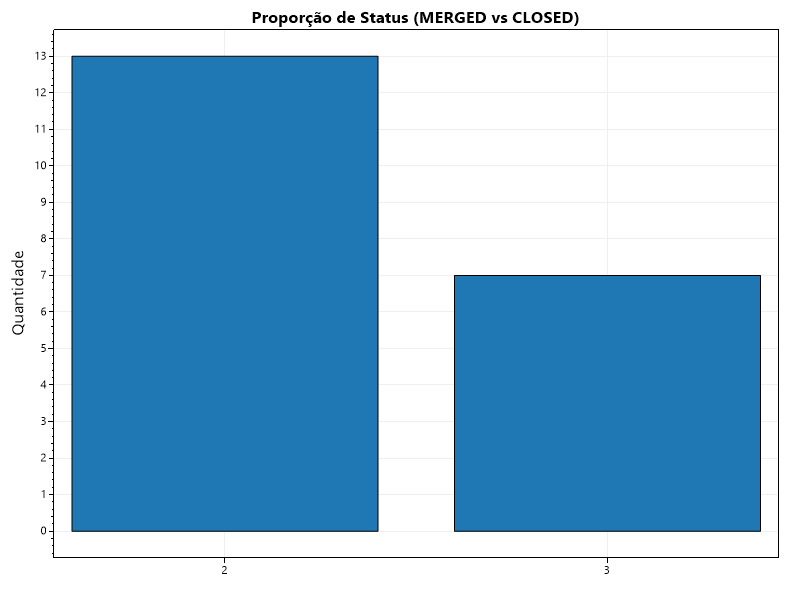
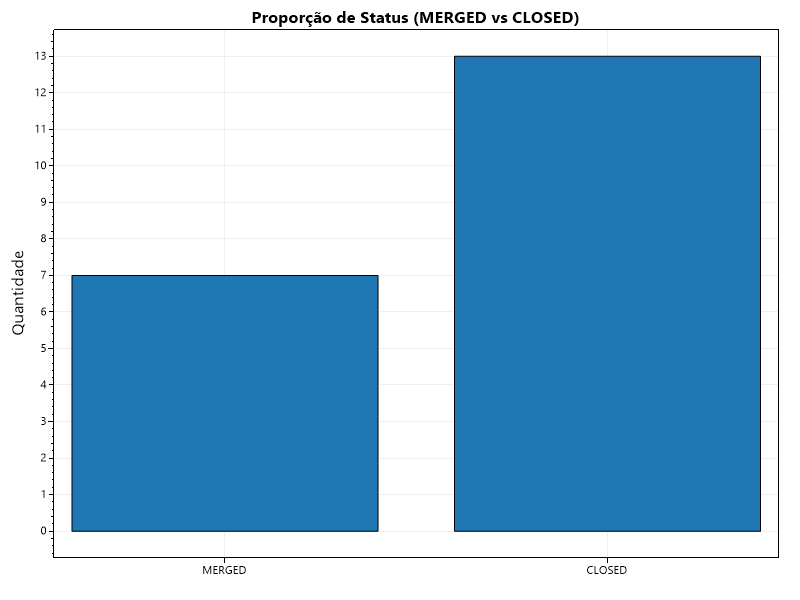
final final

diff --git a/CaracterizandoAtividadeCodeReview/Program.cs b/CaracterizandoAtividadeCodeReview/Program.cs
@@ -375,7 +375,14 @@ namespace CaracterizandoAtividadeCodeReview
         if (fields.Count == 0) continue;
 
         string? repo = idxRepository >= 0 && idxRepository < fields.Count ? fields[idxRepository] : null;
-        string? status = idxStatus >= 0 && idxStatus < fields.Count ? fields[idxStatus] : null;
+        // Robust status detection: prefer the column index, but fall back to searching for MERGED/CLOSED
+        string? status = null;
+        if (idxStatus >= 0 && idxStatus < fields.Count) status = fields[idxStatus];
+        if (string.IsNullOrWhiteSpace(status) || !(status.Trim().Equals("MERGED", StringComparison.OrdinalIgnoreCase) || status.Trim().Equals("CLOSED", StringComparison.OrdinalIgnoreCase)))
+        {
+          var candidate = fields.FirstOrDefault(f => !string.IsNullOrWhiteSpace(f) && (f.Trim().Equals("MERGED", StringComparison.OrdinalIgnoreCase) || f.Trim().Equals("CLOSED", StringComparison.OrdinalIgnoreCase)));
+          if (!string.IsNullOrWhiteSpace(candidate)) status = candidate;
+        }
         string createdStr = idxCreatedAt >= 0 && idxCreatedAt < fields.Count ? fields[idxCreatedAt] : (fields.Count > 3 ? fields[3] : "");
         string reviewTimeStr = idxReviewTime >= 0 && idxReviewTime < fields.Count ? fields[idxReviewTime] : (fields.Count > 5 ? fields[5] : "");
         string additionsStr = idxAdditions >= 0 && idxAdditions < fields.Count ? fields[idxAdditions] : (fields.Count > 6 ? fields[6] : "");
@@ -587,6 +594,7 @@ namespace CaracterizandoAtividadeCodeReview
   pltStatus.Title("Proporção de Status (MERGED vs CLOSED)");
   pltStatus.YLabel("Quantidade");
   SavePlot(pltStatus, "status_proportion.png");
+  Console.WriteLine("[status-keys] " + string.Join(",", statusCounts.Keys));
 
         string[] metrics = new[] { "Additions", "ChangedFiles", "ReviewTimeHours", "BodyLength", "Comments", "Participants" };
         for (int m = 0; m < metrics.Length; m++)
@@ -597,7 +605,7 @@ namespace CaracterizandoAtividadeCodeReview
           for (int i = 0; i < statuses.Count; i++)
           {
             if (string.IsNullOrWhiteSpace(statuses[i])) continue;
-            string st = statuses[i]!.ToUpperInvariant();
+            string st = statuses[i]!.Trim().ToUpperInvariant();
             double val = 0;
             switch (metric)
             {
@@ -608,10 +616,11 @@ namespace CaracterizandoAtividadeCodeReview
               case "Comments": val = comments[i]; break;
               case "Participants": val = participants[i]; break;
             }
-            if (st.Contains("MERG")) mergedVals.Add(val);
+            if (st.StartsWith("MERG")) mergedVals.Add(val);
             else closedVals.Add(val);
           }
 
+          Console.WriteLine($"[boxplot-pre] {metric}: merged={mergedVals.Count}, closed={closedVals.Count}");
           if (mergedVals.Count == 0 || closedVals.Count == 0) continue;
 
           double[] medians = new double[2];
@@ -631,6 +640,7 @@ namespace CaracterizandoAtividadeCodeReview
 
           FillStats(mergedVals, 0);
           FillStats(closedVals, 1);
+          Console.WriteLine($"[boxplot] {metric}: merged={mergedVals.Count}, closed={closedVals.Count}");
 
           var pltBox = new ScottPlot.Plot(800, 600);
           double[] xsBox = new double[] { 0, 1 };
